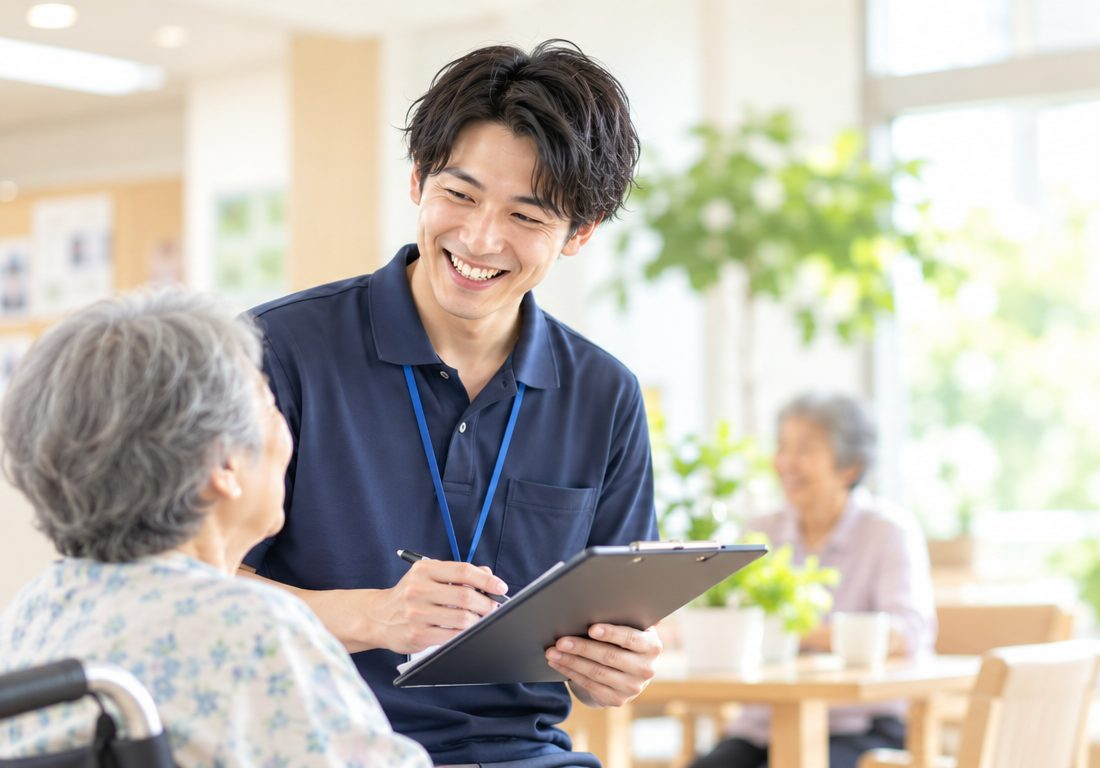
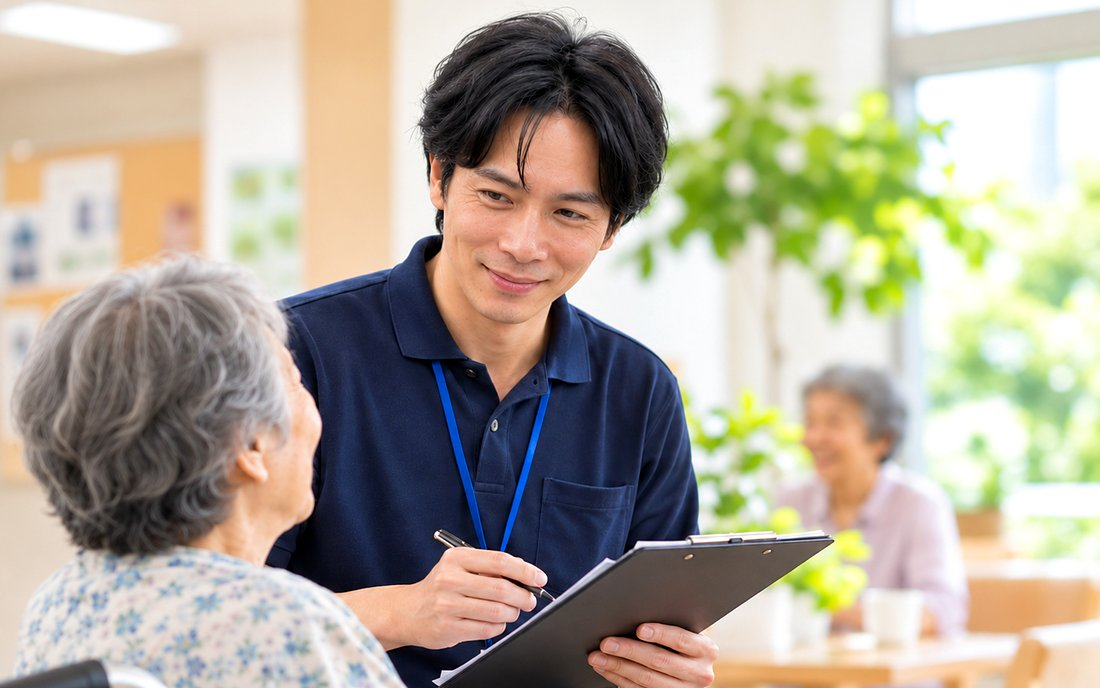
トップ: 「現場を知っている」の写真を差し替え、乗り換え比較へのリンクをサービス欄の下に移動
Claude-Session: https://claude.ai/code/session_01MMpVg41VBWhcxt3rPCWbNr

diff --git a/index.html b/index.html
@@ -46,7 +46,7 @@
 <link rel="preconnect" href="https://fonts.gstatic.com" crossorigin>
 <link href="https://fonts.googleapis.com/css2?family=Caveat:wght@500;600&family=Noto+Sans+JP:wght@400;500;700;800&display=swap" rel="stylesheet">
 <link rel="stylesheet" href="assets/css/style.css?v=20260930-1">
-<link rel="stylesheet" href="assets/css/home-v2.css?v=20261116-11">
+<link rel="stylesheet" href="assets/css/home-v2.css?v=20261116-12">
 <script src="assets/js/ga4.js"></script>
 </head>
 <body class="home2">
@@ -239,6 +239,7 @@
 
       <div class="h2-svc-foot">
         <p class="tax-free-note">表示価格がお支払いの総額です。消費税はかかりません。</p>
+        <p class="h2-small-note">PHP・WordPressのホームページをお使いの方は、<a href="php-homepage-comparison.html">更新・乗り換え方法の比較</a>もご覧ください。</p>
         <a href="homepage-plan.html" class="h2-arrow-link">すべてのサービスの料金を一覧で見る <span aria-hidden="true">→</span></a>
       </div>
     </div>
@@ -290,7 +291,7 @@
             <h3 class="h2-value-title">福祉・介護・医療に特化</h3>
             <p>精神保健福祉士として現場に立った経験から、ご本人やご家族が知りたいことを整理して伝えます。個人情報保護士として、フォームや情報の扱いも一緒に確認します。他業種の方もご相談いただけます。</p>
           </div>
-          <img class="h2-value-photo" src="assets/images/home/home-value-field.jpg" alt="福祉施設で、職員が利用者さんと笑顔で話している様子" width="1100" height="768" loading="lazy">
+          <img class="h2-value-photo" src="assets/images/home/home-value-field.jpg" alt="福祉施設で、職員が利用者さんに寄り添い、笑顔で話を聞いている様子" width="1100" height="688" loading="lazy">
         </li>
       </ol>
     </div>
@@ -559,6 +560,6 @@
 </footer>
 
 <script src="assets/js/main.js"></script>
-<script src="assets/js/home-v2.js?v=20261116-11"></script>
+<script src="assets/js/home-v2.js?v=20261116-12"></script>
 </body>
 </html>

diff --git a/works.html b/works.html
@@ -26,7 +26,7 @@
 <link rel="preconnect" href="https://fonts.gstatic.com" crossorigin>
 <link href="https://fonts.googleapis.com/css2?family=Caveat:wght@500;600&family=Noto+Sans+JP:wght@400;500;700;800&display=swap" rel="stylesheet">
 <link rel="stylesheet" href="assets/css/style.css">
-<link rel="stylesheet" href="assets/css/home-v2.css?v=20261116-11">
+<link rel="stylesheet" href="assets/css/home-v2.css?v=20261116-12">
 <script src="assets/js/ga4.js"></script>
 </head>
 <body>
